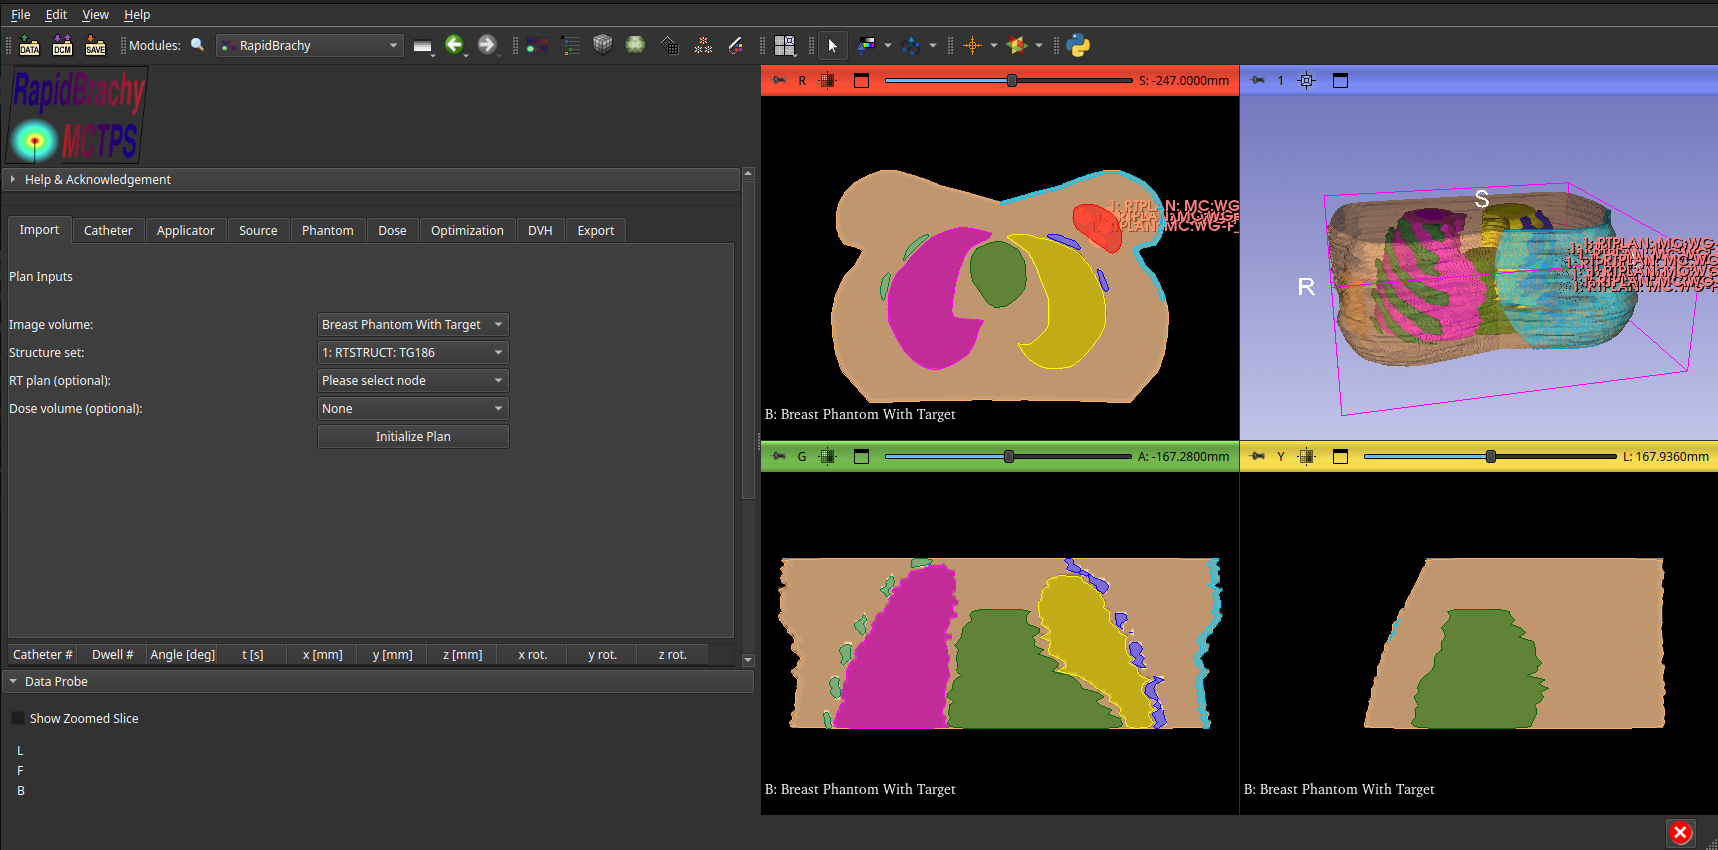
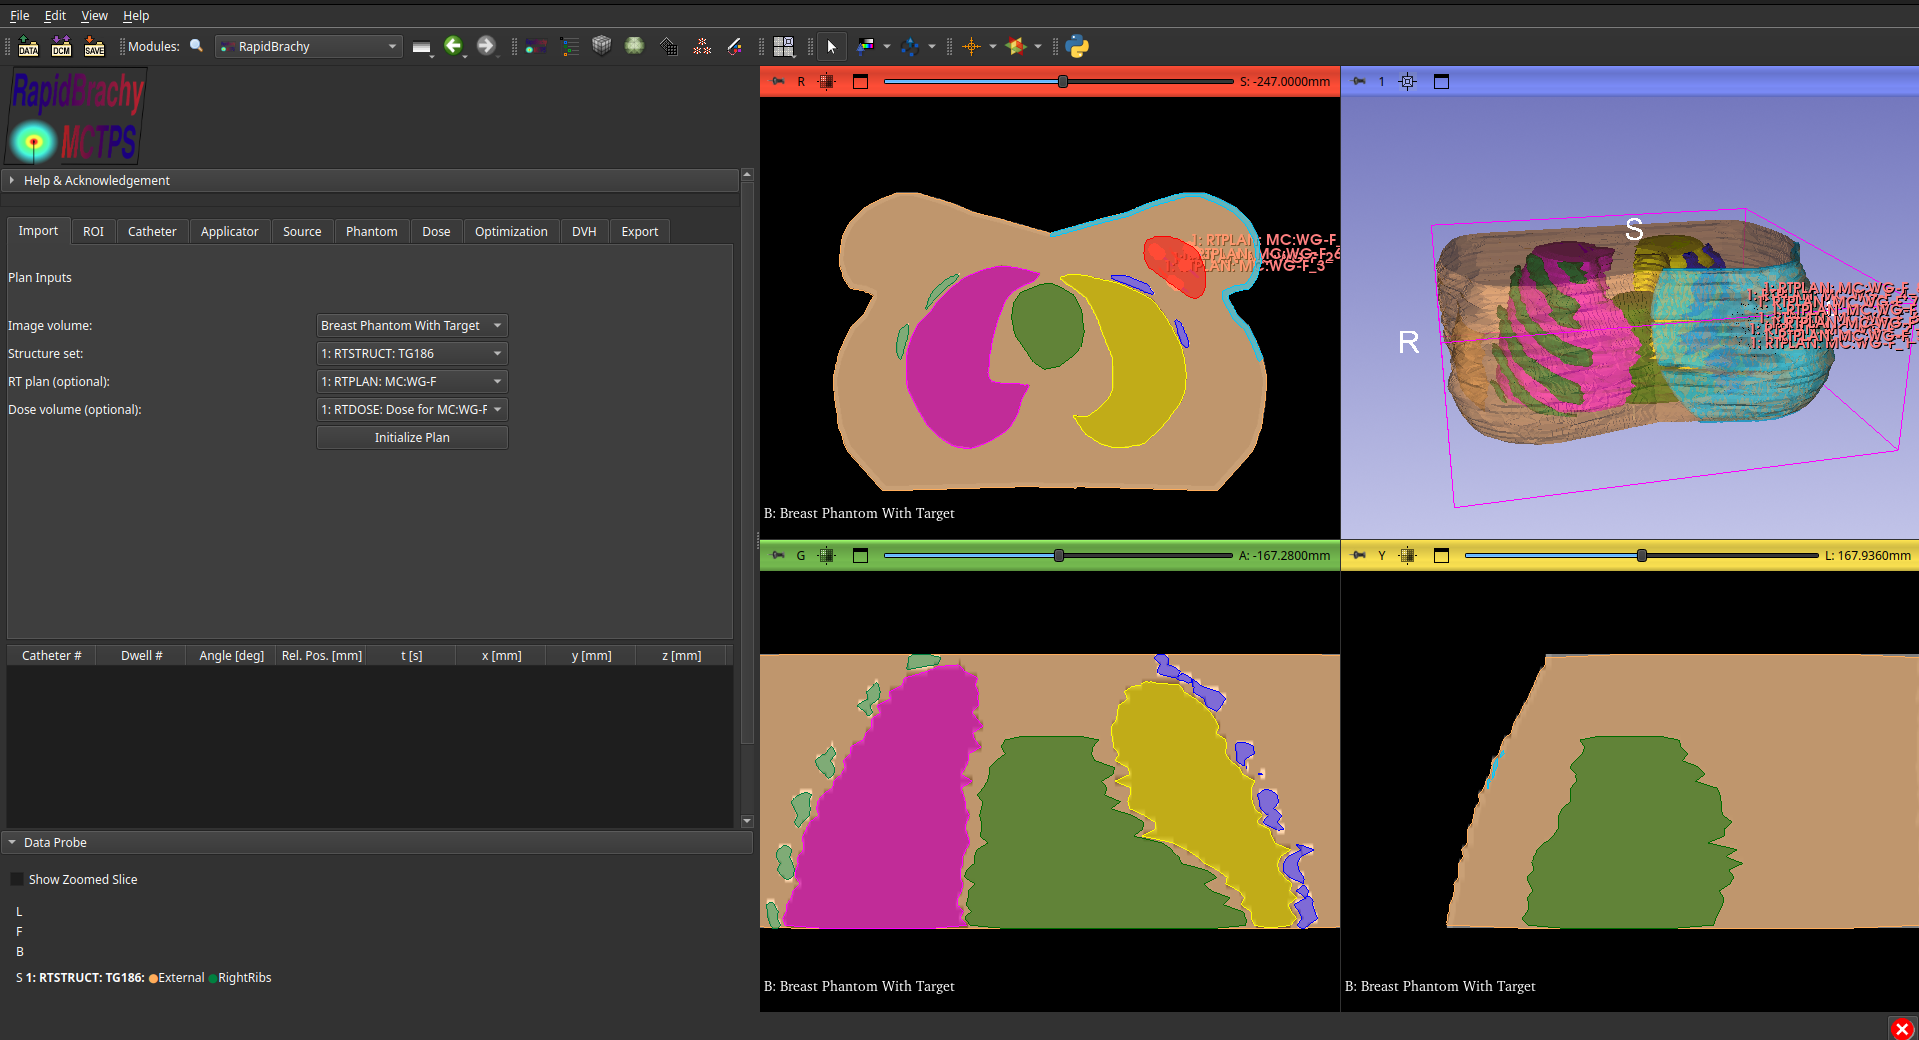
Update ROI tab, and about section

diff --git a/site/about/index.html b/site/about/index.html
@@ -48,6 +48,14 @@
                 <li class="toctree-l1 current"><a class="reference internal current" href="#">About</a>
     <ul class="current">
     <li class="toctree-l2"><a class="reference internal" href="#what-is-rapidbrachymctps">What is RapidBrachyMCTPS?</a>
+        <ul>
+    <li class="toctree-l3"><a class="reference internal" href="#disclaimer">Disclaimer</a>
+        <ul>
+    <li class="toctree-l4"><a class="reference internal" href="#rapidbrachymctps-is-research-software-it-is-not-represented-as-an-approved-certified-or-commissioned-clinical-treatment-planning-system-or-medical-device-the-software-and-associated-documentation-are-provided-without-warranties-concerning-clinical-performance-regulatory-approval-treatment-suitability-or-fitness-for-patient-care-users-are-responsible-for-independently-verifying-calculations-results-data-transformations-source-models-applicator-models-material-assignments-dose-distributions-optimization-outputs-and-exported-files-users-are-also-responsible-for-determining-whether-their-intended-use-complies-with-applicable-institutional-ethical-professional-legal-and-regulatory-requirements-no-treatment-decision-should-be-based-on-rapidbrachymctps-output-without-appropriate-commissioning-independent-verification-qualified-professional-review-institutional-authorization-and-compliance-with-applicable-law">RapidBrachyMCTPS is research software. It is not represented as an approved, certified or commissioned clinical treatment-planning system or medical device. The software and associated documentation are provided without warranties concerning clinical performance, regulatory approval, treatment suitability, or fitness for patient care. Users are responsible for independently verifying calculations, results, data transformations, source models, applicator models, material assignments, dose distributions, optimization outputs, and exported files. Users are also responsible for determining whether their intended use complies with applicable institutional, ethical, professional, legal, and regulatory requirements. No treatment decision should be based on RapidBrachyMCTPS output without appropriate commissioning, independent verification, qualified professional review, institutional authorization, and compliance with applicable law.</a>
+    </li>
+        </ul>
+    </li>
+        </ul>
     </li>
     <li class="toctree-l2"><a class="reference internal" href="#3d-slicer">3D Slicer</a>
     </li>
@@ -150,6 +158,8 @@
 <p><strong>Architecture</strong>: The software is built on the <a href="https://www.kitware.com/slicercat-creating-custom-applications-based-on-3d-slicer/">Slicer Custom App Template (SlicerCAT)</a>, a lightweight wrapper around the core <a href="https://www.slicer.org/">3D Slicer</a> application. This architecture allows users to leverage Slicer’s native capabilities for tasks like image registration and contouring. It can also be deployed as a custom module directly inside 3D Slicer.</p>
 </li>
 </ul>
+<h3 id="disclaimer">Disclaimer</h3>
+<h4 id="rapidbrachymctps-is-research-software-it-is-not-represented-as-an-approved-certified-or-commissioned-clinical-treatment-planning-system-or-medical-device-the-software-and-associated-documentation-are-provided-without-warranties-concerning-clinical-performance-regulatory-approval-treatment-suitability-or-fitness-for-patient-care-users-are-responsible-for-independently-verifying-calculations-results-data-transformations-source-models-applicator-models-material-assignments-dose-distributions-optimization-outputs-and-exported-files-users-are-also-responsible-for-determining-whether-their-intended-use-complies-with-applicable-institutional-ethical-professional-legal-and-regulatory-requirements-no-treatment-decision-should-be-based-on-rapidbrachymctps-output-without-appropriate-commissioning-independent-verification-qualified-professional-review-institutional-authorization-and-compliance-with-applicable-law">RapidBrachyMCTPS is research software. It is not represented as an approved, certified or commissioned clinical treatment-planning system or medical device. The software and associated documentation are provided without warranties concerning clinical performance, regulatory approval, treatment suitability, or fitness for patient care. Users are responsible for independently verifying calculations, results, data transformations, source models, applicator models, material assignments, dose distributions, optimization outputs, and exported files. Users are also responsible for determining whether their intended use complies with applicable institutional, ethical, professional, legal, and regulatory requirements. No treatment decision should be based on RapidBrachyMCTPS output without appropriate commissioning, independent verification, qualified professional review, institutional authorization, and compliance with applicable law.</h4>
 <h2 id="3d-slicer">3D Slicer</h2>
 <ul>
 <li>RapidBrachyMCTPS uses the 3D Slicer GUI as a frontend while utilizing built-in modules to perform supplementary tasks.</li>

diff --git a/site/installation/index.html b/site/installation/index.html
@@ -71,9 +71,9 @@
     </li>
     <li class="toctree-l4"><a class="reference internal" href="#installing-from-source">Installing from source</a>
     </li>
-    <li class="toctree-l4"><a class="reference internal" href="#for-developers">For Developers</a>
-    </li>
         </ul>
+    </li>
+    <li class="toctree-l3"><a class="reference internal" href="#for-developers">For Developers</a>
     </li>
         </ul>
     </li>
@@ -160,7 +160,7 @@
 <li><strong>Installing the RapidBrachyMCTPS standalone application.</strong></li>
 <li><strong>Running the RapidBrachy software as a custom module in 3D Slicer.</strong></li>
 </ol>
-<p>We recommend the <strong>Standalone Application</strong> for clinical users who want a streamlined, turnkey experience, and the <strong>Custom Slicer Module</strong> for researchers who want to integrate our tools with other 3D Slicer extensions. <strong>Please note that the Standalone Application is currently only available for Linux systems</strong>. </p>
+<p>We recommend the <strong>Standalone Application</strong> for users who want a streamlined, turnkey experience, and the <strong>Custom Slicer Module</strong> for users who want to take advantage of the full 3D Slicer ecosystem, including its extensive collection of extensions.</p>
 <table>
 <thead>
 <tr>
@@ -172,13 +172,13 @@
 <tbody>
 <tr>
 <td><strong>Best For</strong></td>
-<td>Clinicians, standard users</td>
-<td>Researchers, developers</td>
+<td>Streamlined, turnkey workflows</td>
+<td>Advanced workflows with the full 3D Slicer ecosystem</td>
 </tr>
 <tr>
 <td><strong>Setup</strong></td>
 <td>Download and run</td>
-<td>Requires 3D Slicer installation</td>
+<td>Requires 3D Slicer, brachyutils, and RapidBrachy installations</td>
 </tr>
 <tr>
 <td><strong>Interoperability</strong></td>
@@ -191,7 +191,7 @@
 <h3 id="standalone-application">Standalone Application</h3>
 <p>This version includes everything you need to run RapidBrachyMCTPS right out of the box.</p>
 <ol>
-<li>Download the latest release from the OneDrive.</li>
+<li>Download the latest release from the OneDrive (provided from engerlab).</li>
 <li>Extract the downloaded archive to your preferred directory.</li>
 <li>Run the <code>RapidBrachyMCTPS</code> executable file.</li>
 </ol>
@@ -235,8 +235,8 @@ pip_install(&quot;-e /Path/To/brachyutils&quot;)
 <pre><code class="language-sh">docker load -i Path/To/rapidbrachy_mc.tar
 </code></pre>
 <h4 id="installing-from-source">Installing from source</h4>
-<p>You will need permission from engerlab to clone the <a href="https://github.com/engerlab/RapidBrachyMC">RapidBrachyMC GitHub Repository</a> to install from source. Installation instructions are found in the README of the repository.</p>
-<h4 id="for-developers">For Developers</h4>
+<p>You will need permission from engerlab to clone the <a href="https://github.com/engerlab/RapidBrachyMC">RapidBrachyMC GitHub Repository</a> to install from source. Installation instructions are found in the README file of the repository.</p>
+<h3 id="for-developers">For Developers</h3>
 <p>If you are developing this module, enable Developer Mode in Slicer by navigating to <code>Edit</code> &gt; <code>Application</code> &gt; <code>Settings</code> &gt; <code>Developer</code> and clicking <code>Enable developer mode</code>.</p>
 <h2 id="dark-mode">Dark Mode</h2>
 <p>Dark mode is recommended, but it is up to personal preference. You can select the appearance mode by clicking <strong>Edit</strong> on the top left and navigating to <strong>Application Settings &gt; Appearance</strong>, under <strong>Style</strong>, select your preferred style.</p>

diff --git a/site/dose/index.html b/site/dose/index.html
@@ -142,9 +142,9 @@
 <h2 id="calculating-a-dose">Calculating a Dose</h2>
 <p>Before running a dose calculation, verify that you have completed your setup. Ensure you have:</p>
 <ul>
-<li>Configured all catheters and applicators (if applicable)</li>
-<li>Defined the brachytherapy source</li>
-<li>Initialized your phantom</li>
+<li>Configured all catheters and applicators (if applicable).</li>
+<li>Defined the brachytherapy source.</li>
+<li>Initialized your phantom.</li>
 </ul>
 <p>Enter the desired prescription dose in Grays. Select your desired algorithm for the dose calculation; RapidBrachyMCTPS is equipped with both the conventional TG-43 formalism and a Geant4-based Monte Carlo (MC) engine.</p>
 <h4 id="tg-43">TG-43</h4>
@@ -159,7 +159,7 @@
 <li>Enter the path to the RapidBrachyMC executable.<ul>
 <li>If you installed RapidBrachyMC from source, set the path to the executable named <code>RapidBrachyMC</code>.</li>
 <li>If you are using the RapidBrachyMC Docker image, the path should be automatically set to <strong>http://172.30.10.11:8000/calculate_dose_mc</strong><ul>
-<li><strong>Note</strong>: if you are using Windows and you are running Docker Desktop, you will need to manually change the path to <strong>http://127.0.0.1:8000/calculate_dose_mc</strong></li>
+<li><strong>Note</strong>: If you are using Windows and you are running Docker Desktop, you will need to manually change the path to <strong>http://127.0.0.1:8000/calculate_dose_mc</strong></li>
 </ul>
 </li>
 </ul>
@@ -169,7 +169,7 @@
 <li>Enter the number of threads (computer cores).</li>
 <li>Enter a random seed for the simulation.</li>
 <li>Click <code>Calculate Dose</code>.</li>
-<li>The dose will be loaded and the catheter table will be populated. The catheter table dwell times can be manually modified.</li>
+<li>The dose will be loaded and the catheter table will be populated. The catheter table dwell times can be manually modified. <strong>Note</strong>: Simulation time depends on several factors, including the number of histories, the size of the ROI, and your computer's performance. As a result, the simulation may take a considerable amount of time to complete.</li>
 </ol>
               
             </div>

diff --git a/site/optimization/index.html b/site/optimization/index.html
@@ -131,7 +131,7 @@
               
                 <h1 id="optimizing-dwell-times">Optimizing Dwell Times</h1>
 <p>After loading a dose file or running a calculation, you can optimize the dwell times from the <strong>Optimization tab</strong>.</p>
-<p><strong>Note</strong>: you will need a <a href="https://www.gurobi.com/misc/lp/all/do-more-with-gurobi?utm_source=google&amp;utm_medium=cpc&amp;utm_campaign=2026+na+googleads+search+brand&amp;utm_content=dmwg&amp;gad_source=1&amp;gad_campaignid=193283256&amp;gclid=Cj0KCQjwxvjRBhC2ARIsAI7KJa20ReSoygu-4uWPg5zbqO6z4aqos3ofLlI185u73OgnVYaF59w3W8UaApdiEALw_wcB">Gurobi license</a> to run optimization calculations. The <strong>gurobi.lic</strong> must be stored in your local home directory. </p>
+<p><strong>Note</strong>: You will need a <a href="https://www.gurobi.com/misc/lp/all/do-more-with-gurobi?utm_source=google&amp;utm_medium=cpc&amp;utm_campaign=2026+na+googleads+search+brand&amp;utm_content=dmwg&amp;gad_source=1&amp;gad_campaignid=193283256&amp;gclid=Cj0KCQjwxvjRBhC2ARIsAI7KJa20ReSoygu-4uWPg5zbqO6z4aqos3ofLlI185u73OgnVYaF59w3W8UaApdiEALw_wcB">Gurobi license</a> to run optimization calculations. The <strong>gurobi.lic</strong> must be stored in your local home directory. </p>
 <p>The Optimization Constraints table contains the parameters for your optimization equation. You can edit the parameters by double-clicking the cells:</p>
 <ul>
 <li><strong>Structure</strong>: Lists the available contoured structures.</li>

diff --git a/site/applicator/index.html b/site/applicator/index.html
@@ -75,6 +75,8 @@
     </li>
     <li class="toctree-l2"><a class="reference internal" href="#placing-applicator">Placing Applicator</a>
     </li>
+    <li class="toctree-l2"><a class="reference internal" href="#shielded-applicator">Shielded Applicator</a>
+    </li>
     </ul>
                 </li>
               </ul>
@@ -201,6 +203,8 @@
 <h2 id="placing-applicator">Placing Applicator</h2>
 <p>After loading, the applicator will appear in the viewing panels. You can adjust its location and orientation using the center dot and rotation wheel.</p>
 <p>Once properly positioned, click <code>Lock Applicator</code> to automatically populate the catheter table with the dwell positions. If you need to make further adjustments, click <code>Unlock Applicator</code>; note that this action will clear the current dwell positions from the table.</p>
+<h2 id="shielded-applicator">Shielded Applicator</h2>
+<p>The shielded applicator feature is currently under development.</p>
               
             </div>
           </div><footer>

diff --git a/site/catheter/index.html b/site/catheter/index.html
@@ -67,8 +67,6 @@
     </li>
     <li class="toctree-l2"><a class="reference internal" href="#removing-catheters">Removing Catheters</a>
     </li>
-    <li class="toctree-l2"><a class="reference internal" href="#shielded-applicator">Shielded Applicator</a>
-    </li>
     </ul>
                 </li>
               </ul>
@@ -159,8 +157,6 @@
 <h2 id="removing-catheters">Removing Catheters</h2>
 <p>To remove catheters from the table, navigate to the <strong>Catheter tab</strong> in the RapidBrachy module. Under <code>Catheter Operations</code>, select the desired catheters and click <code>Remove</code>.</p>
 <p><strong>Note:</strong> This action only clears the catheters from the table. If you want to permanently delete the catheter object from the scene, navigate to the Data module, find the object in the node list, right-click it, and select <code>Delete</code>.</p>
-<h2 id="shielded-applicator">Shielded Applicator</h2>
-<p>ADD SHIELDED GUIDE</p>
               
             </div>
           </div><footer>

diff --git a/site/contouring/index.html b/site/contouring/index.html
@@ -162,7 +162,7 @@
 <h4 id="erase-tool">Erase Tool <img alt="erase" src="../img/erase.png" width="30" /></h4>
 <p>This tool behaves identically to the Paint tool, but removes areas from the segment instead of adding them.</p>
 <h2 id="automatic-contouring">Automatic Contouring</h2>
-<p>3D Slicer has several options for AI auto-contouring, such as <a href="https://github.com/lassoan/SlicerMONAIAuto3DSeg">MONAIAuto3DSeg</a>, available in the official 3D Slicer app.</p>
+<p>Automatic contouring is currently available only in the RapidBrachyMCTPS 3D Slicer module and is not yet supported in the standalone application.. 3D Slicer has several options for AI auto-contouring, such as <a href="https://github.com/lassoan/SlicerMONAIAuto3DSeg">MONAIAuto3DSeg</a>, available in the official 3D Slicer app.</p>
               
             </div>
           </div><footer>

diff --git a/site/index.html b/site/index.html
@@ -189,5 +189,5 @@
 
 <!--
 MkDocs version : 1.6.1
-Build Date UTC : 2026-06-26 20:14:19.931558+00:00
+Build Date UTC : 2026-06-29 14:40:00.976377+00:00
 -->

diff --git a/docs/plan.md b/docs/plan.md
@@ -11,4 +11,12 @@ The loaded data will now appear in the viewing panels, overlaid with a pink box 
 
 ![ROIBreastOnly](img/ROIBreastOnly.png){ width="600" }
 
+You can also automatically generate a ROI based on existing structures rather than defining it manually.
+
+1. Navigate to the **ROI tab** and use the `Conform to contours` drop-down menu to select the structures you want to include.
+2. Specify a margin (in mm) to define the buffer distance between your selected structures and the outer ROI boundary.
+3. Click `Update` and wait for the software to generate the new bounding volume.
+
+Instead of setting the ROI manually, you can systematically set the ROI by structure from the **ROI tab**. Select the desired structures to be included in the ROI from the `Conform to contours` drop-down menu. Then input a margin (in mm) indicating the buffer space between the structure and the border of the ROI. Click `Update` and wait for the ROI to update.
+
 To inspect the individual nodes, navigate to the **Data** in the module tab ![data](img/data.png){ width="25" }. For a detailed overview of the terminology and structure used in 3D Slicer and RapidBrachyMCTPS, refer to the [Slicer MRML Documentation](https://slicer.readthedocs.io/en/latest/developer_guide/mrml_overview.html).

diff --git a/docs/about.md b/docs/about.md
@@ -31,6 +31,20 @@ If you use RapidBrachyMCTPS for research, please cite the following in your publ
 6. Kalinowski J, Jafarzadeh H, Farahnak F, Enger SA. RapidBrachyMCTPS 3.0: recent updates and validation of RapidBrachyMCTPS, a Monte Carlo-based brachytherapy treatment planning system. Phys Med Biol. 2026;71(12):12NT02. doi:10.1088/1361-6560/ae72e9
 
 ## Acknowledgement
+RapidBrachyMCTPS is made possible through the continuous collaborative efforts of the research team at the Enger Lab, affiliated with the Medical Physics Unit at McGill University and the Lady Davis Institute for Medical Research. The following sections give credit to some of the major contributors to the RapidBrachyMCTPS core effort.
+
+### Major Contributors
+* Jonathan Kalinowski
+* Hossein Jafarzadeh
+* Remi Walhain
+* Shirin A. Enger
+
+### Groups Contributing to RapidBrachyMCTPS's Core Engineering
+* 3D Slicer
+* Kitware
+* Geant4
+
+### Funding Sources
 
 ## Contact us
-
+Any questions can be forwarded to 

diff --git a/docs/installation.md b/docs/installation.md
@@ -18,7 +18,7 @@ We recommend the **Standalone Application** for users who want a streamlined, tu
 ### Standalone Application
 This version includes everything you need to run RapidBrachyMCTPS right out of the box.
 
-1. Download the latest release from the OneDrive (provided from engerlab).
+1. Download the latest release from the OneDrive (provided from Enger Lab).
 2. Extract the downloaded archive to your preferred directory.
 3. Run the `RapidBrachyMCTPS` executable file.
 

diff --git a/docs/import.md b/docs/import.md
@@ -15,3 +15,5 @@ You can scroll through image slices using the mouse wheel. To pan the image, cli
 
 ![loaded](img/loaded.png){ width="900" } 
 
+To inspect the individual nodes, navigate to **Data** in the module tab ![data](img/data.png){ width="25" }. For a detailed overview of the terminology and structure used in 3D Slicer and RapidBrachyMCTPS, refer to the [Slicer MRML Documentation](https://slicer.readthedocs.io/en/latest/developer_guide/mrml_overview.html).
+
